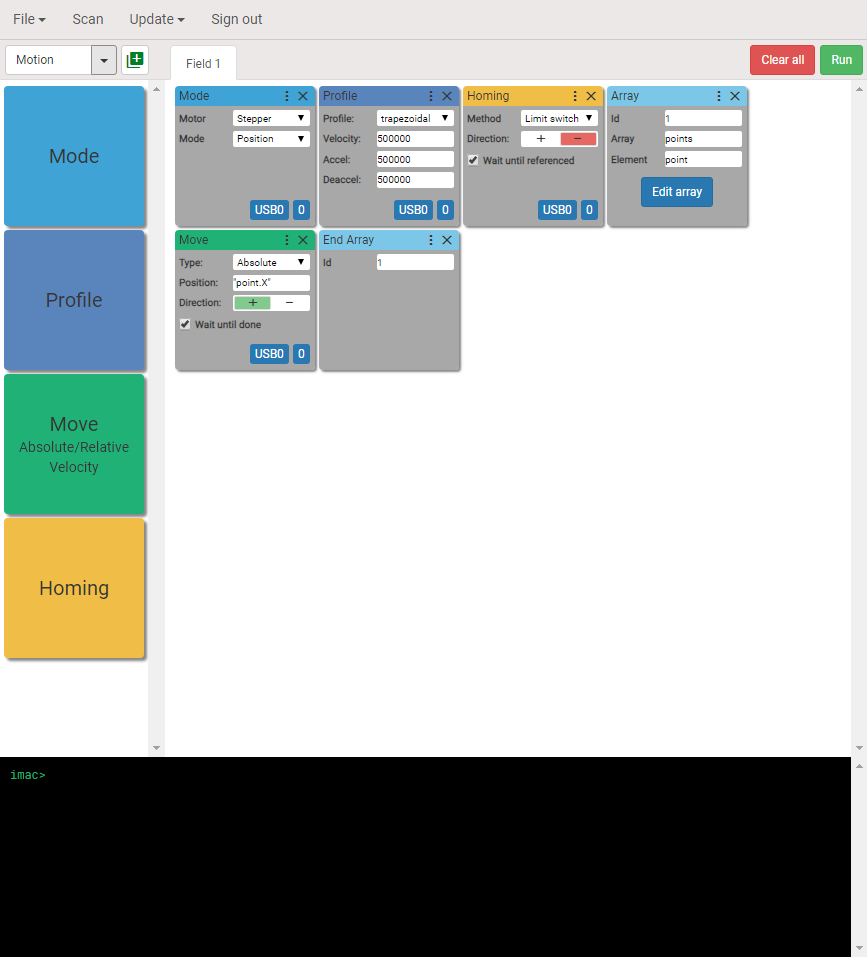
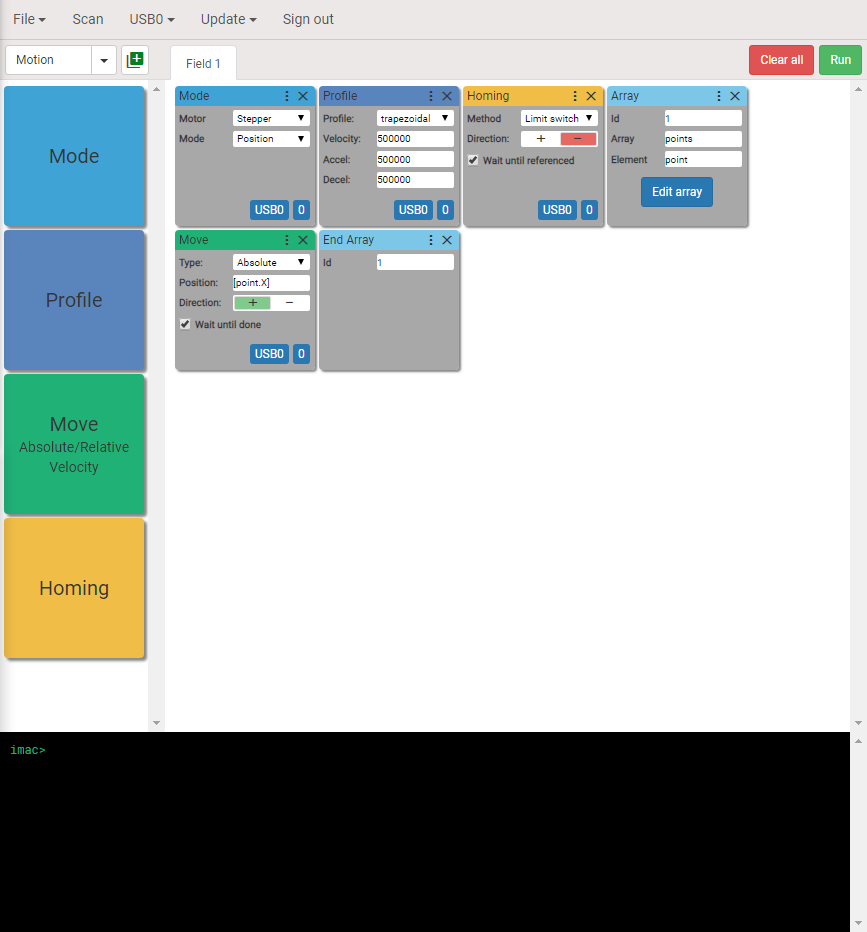
deaccel -> decel -  part 1

diff --git a/docs/guideArray2.md b/docs/guideArray2.md
@@ -14,7 +14,7 @@ Click on the image to watch demo on Youtube.
 
 ### Step 1. Configuring Mode and Profile blocks
 
-Drag and drop Mode and Profile blocks onto the visual programming workspace for X, Y and Z axes. Define the motor type, motion mode, profile, velocity, acceleration and deacceleration.
+Drag and drop Mode and Profile blocks onto the visual programming workspace for X, Y and Z axes. Define the motor type, motion mode, profile, velocity, acceleration and deceleration.
 
 > Note: 0 is X; 1 is Y; 2 is Z.
 

diff --git a/docs/get_started.md b/docs/get_started.md
@@ -68,7 +68,7 @@ Allows to set the motion characteristics.
 
 *Acceleration*: positive integer [*counts/sec^2*]
 
-*Deacceleration*: positive integer [*counts/sec^2*]
+*Deceleration*: positive integer [*counts/sec^2*]
 
 *Jerk*: positive integer [*counts/sec^3*]
 
